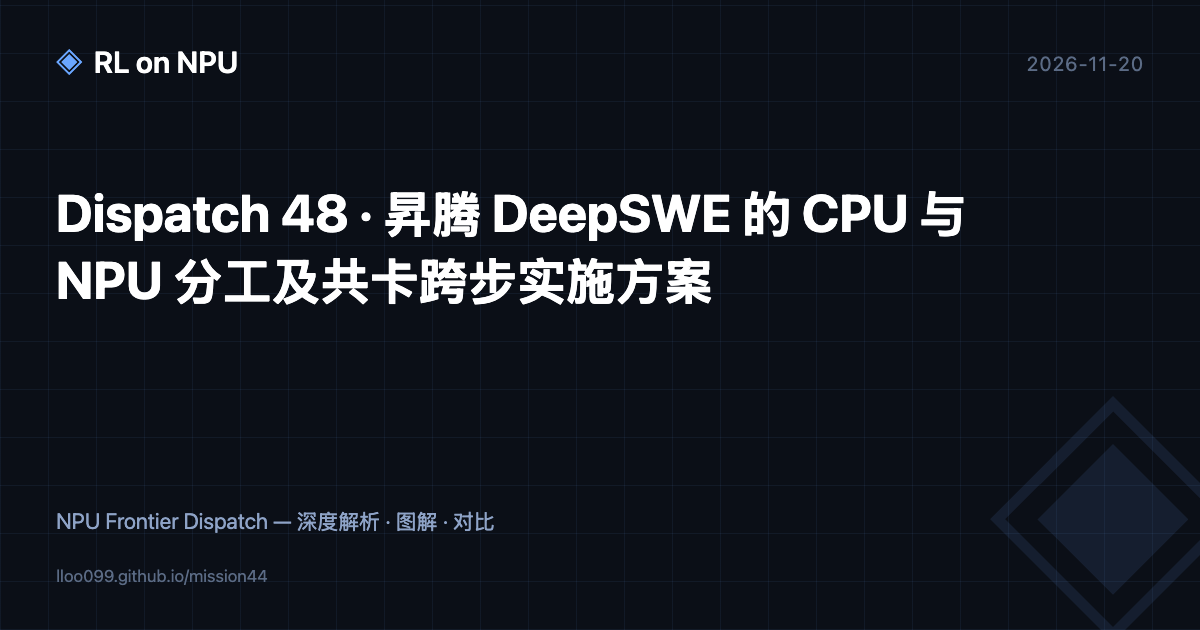
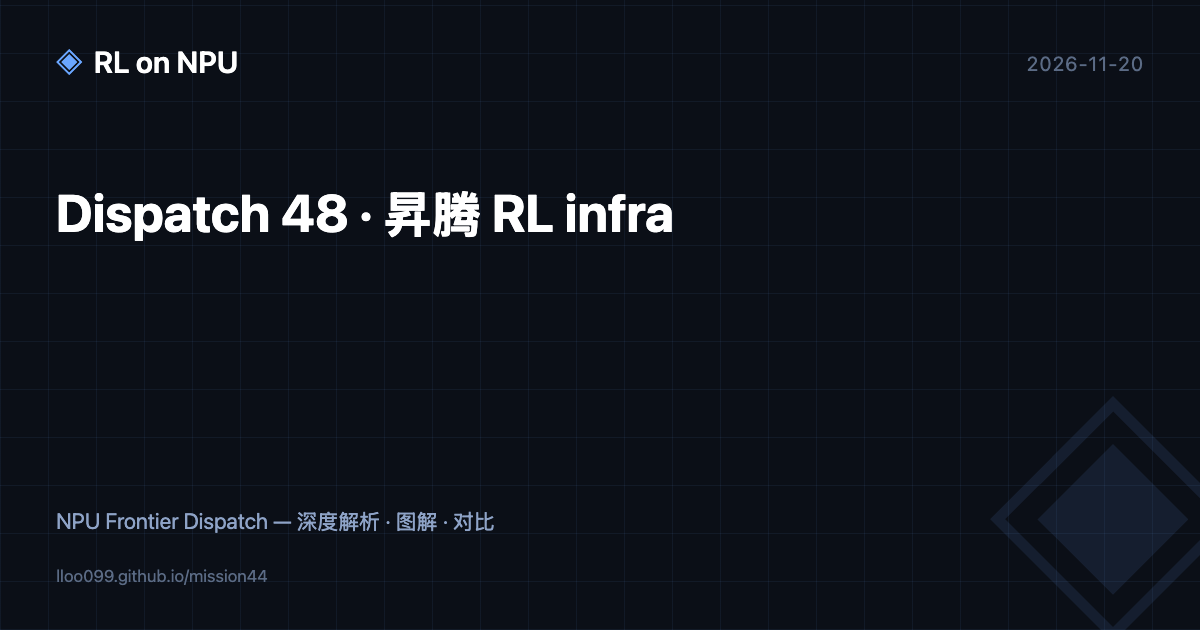
Rename infrastructure report to Ascend RL infra

Changed region(s): [[0.0308, 0.3016, 0.8017, 0.4825]]

diff --git a/reads/dispatch-48-deepswe-cpu-npu-runtime.html b/reads/dispatch-48-deepswe-cpu-npu-runtime.html
@@ -3,10 +3,10 @@
 <head>
 <meta charset="UTF-8">
 <meta name="viewport" content="width=device-width, initial-scale=1.0">
-<title>Dispatch 48 · 昇腾 DeepSWE 的 CPU 与 NPU 分工及共卡跨步实施方案</title>
+<title>Dispatch 48 · 昇腾 RL infra</title>
 <meta name="description" content="新增参考 MiMo 与 DSec 分区布局绘制的系统总览，结合四张配套图梳理 Sandbox、Harness、Agent Loop、Rollout 与 Learner 的硬件分工、独立接口和状态归属。以 v42→v43 解释策略发布、显存切换、完整组消费与跨步恢复，给出 512 路环境的分层配额和三阶段验收方案。拓扑与协议为项目设计，昇腾性能收益待实测。">
 <link rel="canonical" href="https://lloo099.github.io/mission44/reads/dispatch-48-deepswe-cpu-npu-runtime.html">
-<meta property="og:title" content="Dispatch 48 · 昇腾 DeepSWE 的 CPU 与 NPU 分工及共卡跨步实施方案">
+<meta property="og:title" content="Dispatch 48 · 昇腾 RL infra">
 <meta property="og:description" content="新增参考 MiMo 与 DSec 分区布局绘制的系统总览，结合四张配套图梳理 Sandbox、Harness、Agent Loop、Rollout 与 Learner 的硬件分工、独立接口和状态归属。以 v42→v43 解释策略发布、显存切换、完整组消费与跨步恢复，给出 512 路环境的分层配额和三阶段验收方案。拓扑与协议为项目设计，昇腾性能收益待实测。">
 <meta property="og:type" content="article">
 <meta property="og:url" content="https://lloo099.github.io/mission44/reads/dispatch-48-deepswe-cpu-npu-runtime.html">
@@ -17,7 +17,7 @@
 </head>
 <body><div class="wrap">
 <div class="readbar"><a class="brand" href="../index.html">RL on NPU · Research Dashboard</a><a href="../index.html#blog/dispatch-48-deepswe-cpu-npu-runtime">看板内阅读原文</a><a href="../docs/blog/dispatch-48-deepswe-cpu-npu-runtime.md">Markdown 源</a><span class="spacer"></span><button id="theme-toggle" type="button" aria-label="切换深浅色主题">切换深浅色</button></div>
-<header class="masthead"><div class="kicker">NPU Frontier Dispatch 48 · 2026-11-20</div><h1>昇腾 DeepSWE 的 CPU 与 NPU 分工及共卡跨步实施方案</h1><p class="standfirst">DeepSWE 的一次学习闭环需要同时维持模型计算、Agent 决策和代码执行。建议将长期存活的会话与环境放在 CPU 执行层，将模型生成和梯度更新放在 GPU 或昇腾 NPU 计算层，通过明确的阶段协议分时共卡。已经完成并通过数据验收的题目组进入训练队列，未完成尝试保存现场，在后续生成窗口继续。</p><div class="byline"><span>承接 D46 / D47</span><span>模块部署 · 接口 · 操作时序</span><span>本站实施设计 · 性能待实测</span></div></header>
+<header class="masthead"><div class="kicker">NPU Frontier Dispatch 48 · 2026-11-20</div><h1>昇腾 RL infra</h1><p class="standfirst">昇腾 RL infra 面向多任务、多 Harness 的 Agentic RL，协调模型计算、Agent 决策与隔离环境执行。本报告以 DeepSWE 编码任务为实例，说明 CPU 与 NPU 分工及共卡跨步方案。建议将长期存活的会话与环境放在 CPU 执行层，将模型生成和梯度更新放在 GPU 或昇腾 NPU 计算层，通过明确的阶段协议分时共卡。已经完成并通过数据验收的题目组进入训练队列，未完成尝试保存现场，在后续生成窗口继续。</p><div class="byline"><span>承接 D46 / D47</span><span>模块部署 · 接口 · 操作时序</span><span>本站实施设计 · 性能待实测</span></div></header>
 <nav class="toc"><ol><li><a href="#s0">00 架构总览怎样读</a></li>
 <li><a href="#s1">01 四个模块分别运行在哪里</a></li>
 <li><a href="#s2">02 控制链路与数据链路怎样接起来</a></li>
@@ -29,10 +29,10 @@
 <li><a href="#s8">08 512 路环境怎样配资源</a></li>
 <li><a href="#s9">09 三阶段落地和验收</a></li>
 <li><a href="#s10">10 来源与方案边界</a></li></ol></nav>
-<main><p>本文承接 <a href="dispatch-46-dsec-mimo-rl-infra.html" target="_blank" rel="noopener">D46 DSec 与 MiMo 基础设施</a> 和 <a href="dispatch-47-910b-async-rl.html" target="_blank" rel="noopener">D47 910B 异步 RL</a>。下文的拓扑、版本字段、切换协议和实验顺序均为面向本项目的实施设计。项目已有观察是开启 512 个沙箱时，部分环境的采样 CPU 用量低于 0.01 核；节点总体用量、峰值和采样窗口仍需复核。本文的 v42、v43 与题目组数字均用于解释机制。</p>
+<main><p>本文承接 <a href="dispatch-46-dsec-mimo-rl-infra.html" target="_blank" rel="noopener">D46 DSec 与 MiMo 基础设施</a> 和 <a href="dispatch-47-910b-async-rl.html" target="_blank" rel="noopener">D47 910B 异步 RL</a>。下文的拓扑、版本字段、切换协议和实验顺序均为面向本项目的实施设计。DeepSWE 实例中已有观察是开启 512 个沙箱时，部分环境的采样 CPU 用量低于 0.01 核；节点总体用量、峰值和采样窗口仍需复核。本文的 v42、v43 与题目组数字均用于解释机制。</p>
 <h2 id="s0"><span class="hnum">00</span>架构总览怎样读</h2>
 <p>大框划分职责与资源边界，小框表示模块，叠放方框表示一个池承载多个独立实例。实现可以将相邻的可信模块放在同一进程，按接口保持可替换性。先沿左侧 CPU 任务执行链路读图，再看右侧模型计算，最后沿底部数据面回到 Learner。</p>
-<figure id="architecture"><a href="img/dispatch-48-deepswe-cpu-npu-runtime/system-architecture.svg" target="_blank" rel="noopener"><img src="img/dispatch-48-deepswe-cpu-npu-runtime/system-architecture.svg" alt="昇腾 DeepSWE 系统架构总览，参考 MiMo 与 DSec 的分区布局绘制"></a><figcaption>架构总览 · 本站集成设计 · <a href="img/dispatch-48-deepswe-cpu-npu-runtime/system-architecture.svg" target="_blank" rel="noopener">打开矢量图</a> · <a href="img/dispatch-48-deepswe-cpu-npu-runtime/system-architecture.png" target="_blank" rel="noopener">高清 PNG</a></figcaption><div class="readout"><h5>模块与连线</h5><p>架构总览采用嵌套模块、池化实例和分类连线，将 CPU 控制面、Harness Pool、Agent Loop Pool、Sandbox Platform、轨迹数据面，以及共卡的 Learner 与 Rollout Engine 放在一张图中。红线表示阶段与生命周期控制，蓝线表示模型调用，绿线表示工具执行，橙线表示轨迹载荷，灰色虚线表示轻量元数据。沙箱后端按实际任务选择，共卡阶段由 Controller 协调。</p></div></figure>
+<figure id="architecture"><a href="img/dispatch-48-deepswe-cpu-npu-runtime/system-architecture.svg" target="_blank" rel="noopener"><img src="img/dispatch-48-deepswe-cpu-npu-runtime/system-architecture.svg" alt="昇腾 RL infra 系统架构总览，参考 MiMo 与 DSec 的分区布局绘制"></a><figcaption>架构总览 · 本站集成设计 · <a href="img/dispatch-48-deepswe-cpu-npu-runtime/system-architecture.svg" target="_blank" rel="noopener">打开矢量图</a> · <a href="img/dispatch-48-deepswe-cpu-npu-runtime/system-architecture.png" target="_blank" rel="noopener">高清 PNG</a></figcaption><div class="readout"><h5>模块与连线</h5><p>架构总览采用嵌套模块、池化实例和分类连线，将 CPU 控制面、Harness Pool、Agent Loop Pool、Sandbox Platform、轨迹数据面，以及共卡的 Learner 与 Rollout Engine 放在一张图中。红线表示阶段与生命周期控制，蓝线表示模型调用，绿线表示工具执行，橙线表示轨迹载荷，灰色虚线表示轻量元数据。沙箱后端按实际任务选择，共卡阶段由 Controller 协调。</p></div></figure>
 <p>分区表达参考 MiMo-V2.6 Figure 14 的控制面、数据面和执行池，以及 DSec Figure 1 的集群服务、节点运行时和后端展开方式。图中的组件部署、独立接口、资源布局与共卡协议属于本项目的集成设计，图中规模符号表示池化实例，实际容量由实验确定。<a href="https://arxiv.org/html/2610.11959v1#S6" target="_blank" rel="noopener">MiMo Figure 14</a>、<a href="https://arxiv.org/html/2609.22978v1#S3" target="_blank" rel="noopener">DSec Figure 1</a></p>
 <h3>上方控制面决定发什么任务以及何时切换设备</h3>
 <p>Sample Mixer 管任务供给，依据目标训练配比、各源耗时、组接受率和资源预算派发尝试。RL Controller 管训练与生成阶段，协调停止新生成、显存装卸、参数更新和权重发布。Run State Registry 保存组成员、尝试进度、奖励、策略版本、载荷引用和批次消费状态。三者配合后，调度器能够依据元数据判断训练条件，执行端能够查询自己的恢复位置。</p>
@@ -82,7 +82,7 @@
 <h2 id="s4"><span class="hnum">04</span>v43 是什么</h2>
 <p>v43 是示意性的策略发布编号，代表一份已经装载并允许生成的模型权重快照。在例子里，Learner 从 v42 对应的参数继续更新，准备出下一份权重，Controller 完成发布后将其标为 v43。数字 43 与模型品牌、参数量、GPU 编号和工具轮次分别使用不同字段表示。</p>
 <p>一次发布可以包含一个或多个 optimizer step，也可以因为恢复、验证或发布频率而跳过若干训练步。系统需要同时记录训练进度、发布版本和引擎实例。重启后重新加载同一份权重，可以沿用原策略 ID，并分配新的实例 ID。</p>
-<div class="tbl"><table><tr><th>字段</th><th>示例</th><th>作用</th></tr><tr><td>run_id</td><td>deepswe-run-A</td><td>区分独立训练运行</td></tr><tr><td>policy_id</td><td>deepswe-run-A/p43</td><td>标识不可变的已发布策略</td></tr><tr><td>parent_policy_id</td><td>deepswe-run-A/p42</td><td>追踪权重来源</td></tr><tr><td>optimizer_step</td><td>1200</td><td>记录真实训练进度，数值为示例</td></tr><tr><td>weights_digest</td><td>权重清单摘要</td><td>校验目标权重制品或分片清单</td></tr><tr><td>inference_config_digest</td><td>tokenizer、模板、量化等配置摘要</td><td>标识影响生成行为的推理配置</td></tr><tr><td>publication_state</td><td>PREPARING / COMMITTED</td><td>区分准备中和可服务状态</td></tr></table></div>
+<div class="tbl"><table><tr><th>字段</th><th>示例</th><th>作用</th></tr><tr><td>run_id</td><td>rl-run-A</td><td>区分独立训练运行</td></tr><tr><td>policy_id</td><td>rl-run-A/p43</td><td>标识不可变的已发布策略</td></tr><tr><td>parent_policy_id</td><td>rl-run-A/p42</td><td>追踪权重来源</td></tr><tr><td>optimizer_step</td><td>1200</td><td>记录真实训练进度，数值为示例</td></tr><tr><td>weights_digest</td><td>权重清单摘要</td><td>校验目标权重制品或分片清单</td></tr><tr><td>inference_config_digest</td><td>tokenizer、模板、量化等配置摘要</td><td>标识影响生成行为的推理配置</td></tr><tr><td>publication_state</td><td>PREPARING / COMMITTED</td><td>区分准备中和可服务状态</td></tr></table></div>
 <p>这些是本项目建议字段。权重重切分或量化后，各 rank 校验应使用对应分片与转换配置；训练权重文件的摘要无法直接替代转换后推理张量的校验。跨版本统计按同一 run 的发布序号和 lineage 计算，回滚与分支需要另行处理。</p>
 <h2 id="s5"><span class="hnum">05</span>共卡时怎样从 v42 切到 v43</h2>
 <figure><a href="img/dispatch-48-deepswe-cpu-npu-runtime/fig-4.svg" target="_blank" rel="noopener"><img class="diagram" src="img/dispatch-48-deepswe-cpu-npu-runtime/fig-4.svg" alt="共卡模式下 v42 到 v43 的操作时序"></a><figcaption>图 4 · 共卡模式下 v42 到 v43 的操作时序 · 本站实施设计 · <a href="img/dispatch-48-deepswe-cpu-npu-runtime/fig-4.svg" target="_blank" rel="noopener">打开原图</a></figcaption><div class="readout"><h5>操作关系</h5><p>本图展示共卡操作协议。第一版选择排空当前生成请求，在工具轮次之间续接。长解码可增加经验证的中断与续接机制。排空生成的等待、设备卸载、训练状态恢复、权重传输和推理恢复应分别计时。</p></div></figure>
@@ -108,7 +108,7 @@
 <p>每次实验记录模型、任务与环境修订、芯片及卡数、CANN / torch_npu / 训练和推理版本、并行策略、长度分布、随机种子和预算。分别测量排空、卸载、训练、权重装载、缓存恢复、工具排队和验证时间，再比较有效训练组吞吐及同预算任务效果。</p>
 <h2 id="s10"><span class="hnum">10</span>来源与方案边界</h2>
 <div class="tbl"><table><tr><th>来源</th><th>本文采用的机制</th><th>在本项目中需要验证的部分</th></tr><tr><td>MiMo §6</td><td>Agent Loop、Harness 池化、载荷引用与混合任务供数</td><td>与现有框架的接口映射、版本记录、训练数据消费</td></tr><tr><td>DSec §6</td><td>环境与执行状态跨训练作业保留、暂停恢复</td><td>实际后端的内存回收、命令恢复、环境重置</td></tr><tr><td>vLLM-Ascend 官方 RL 文档</td><td>同卡 sleep、权重传输、暂停恢复的基础能力</td><td>目标芯片、模型与固定软件版本下的正确性和切换成本</td></tr></table></div>
-<p>部署图、状态契约、v42→v43 协议与分阶段验收均为集成设计。昇腾 DeepSWE 上的跨步收益、可承载密度和训练效果需要通过上述实验获得。</p>
+<p>部署图、状态契约、v42→v43 协议与分阶段验收均为集成设计。昇腾 RL infra 在具体任务上的跨步收益、可承载密度和训练效果需要通过上述实验获得。</p>
 <p>来源链接见 <a href="https://arxiv.org/html/2610.11959v1#S6" target="_blank" rel="noopener">MiMo-V2.6 技术报告</a>、<a href="https://arxiv.org/html/2609.22978v1#S6" target="_blank" rel="noopener">DSec 技术报告</a>、<a href="https://docs.vllm.ai/projects/ascend/en/latest/user_guide/feature_guide/rl.html" target="_blank" rel="noopener">vLLM-Ascend RL 文档</a>。网页能力核对日期为 2026-11-20，复现实验应固定实际安装版本。</p></main>
 <footer>RL on NPU · Dispatch 48 · 2026-11-20 · 方案中的 v42 与 v43 为策略发布示例。<a href="../index.html#blog/dispatch-48-deepswe-cpu-npu-runtime">返回 Mission44</a></footer>
 </div><script>(function(){var b=document.getElementById('theme-toggle');if(!b)return;b.addEventListener('click',function(){var r=document.documentElement;var dark=r.getAttribute('data-theme')==='dark'||(!r.getAttribute('data-theme')&&matchMedia('(prefers-color-scheme: dark)').matches);var next=dark?'light':'dark';r.setAttribute('data-theme',next);try{localStorage.setItem('theme',next);}catch(e){}});})();</script></body></html>

diff --git a/p/dispatch-48-deepswe-cpu-npu-runtime.html b/p/dispatch-48-deepswe-cpu-npu-runtime.html
@@ -3,11 +3,11 @@
 <head>
   <meta charset="UTF-8" />
   <meta name="viewport" content="width=device-width, initial-scale=1.0" />
-  <title>Dispatch 48 · 昇腾 DeepSWE 的 CPU 与 NPU 分工及共卡跨步实施方案 · NPU Frontier Dispatch</title>
+  <title>Dispatch 48 · 昇腾 RL infra · NPU Frontier Dispatch</title>
   <meta name="description" content="新增参考 MiMo 与 DSec 分区布局绘制的系统总览，结合四张配套图梳理 Sandbox、Harness、Agent Loop、Rollout 与 Learner 的硬件分工、独立接口和状态归属。以 v42→v43 解释策略发布、显存切换、完整组消费与跨步恢复，给出 512 路环境的分层配额和三阶段验收方案。拓扑与协议为项目设计，昇腾性能收益待实测。" />
   <link rel="canonical" href="https://lloo099.github.io/mission44/p/dispatch-48-deepswe-cpu-npu-runtime.html" />
   <meta property="og:type" content="article" />
-  <meta property="og:title" content="Dispatch 48 · 昇腾 DeepSWE 的 CPU 与 NPU 分工及共卡跨步实施方案" />
+  <meta property="og:title" content="Dispatch 48 · 昇腾 RL infra" />
   <meta property="og:description" content="新增参考 MiMo 与 DSec 分区布局绘制的系统总览，结合四张配套图梳理 Sandbox、Harness、Agent Loop、Rollout 与 Learner 的硬件分工、独立接口和状态归属。以 v42→v43 解释策略发布、显存切换、完整组消费与跨步恢复，给出 512 路环境的分层配额和三阶段验收方案。拓扑与协议为项目设计，昇腾性能收益待实测。" />
   <meta property="og:url" content="https://lloo099.github.io/mission44/p/dispatch-48-deepswe-cpu-npu-runtime.html" />
   <meta property="og:image" content="https://lloo099.github.io/mission44/assets/og/dispatch-48-deepswe-cpu-npu-runtime.png" />
@@ -18,8 +18,8 @@
   <style>body{font-family:system-ui,sans-serif;background:#0b0f17;color:#dfe7f5;max-width:720px;margin:80px auto;padding:0 20px;line-height:1.7}a{color:#6aa6ff}</style>
 </head>
 <body>
-  <h1>Dispatch 48 · 昇腾 DeepSWE 的 CPU 与 NPU 分工及共卡跨步实施方案</h1>
-  <p><em>2026-11-20 · NPU Frontier Dispatch · DeepSWE / agentic-RL / sandbox / Harness / Ascend / colocated-RL / partial-rollout</em></p>
+  <h1>Dispatch 48 · 昇腾 RL infra</h1>
+  <p><em>2026-11-20 · NPU Frontier Dispatch · RL-infra / DeepSWE / agentic-RL / sandbox / Harness / Ascend / colocated-RL / partial-rollout</em></p>
   <p>新增参考 MiMo 与 DSec 分区布局绘制的系统总览，结合四张配套图梳理 Sandbox、Harness、Agent Loop、Rollout 与 Learner 的硬件分工、独立接口和状态归属。以 v42→v43 解释策略发布、显存切换、完整组消费与跨步恢复，给出 512 路环境的分层配额和三阶段验收方案。拓扑与协议为项目设计，昇腾性能收益待实测。</p>
   <p><a href="https://lloo099.github.io/mission44/#blog/dispatch-48-deepswe-cpu-npu-runtime">→ 阅读全文(RL-on-NPU Research Dashboard)</a></p>
 </body>
